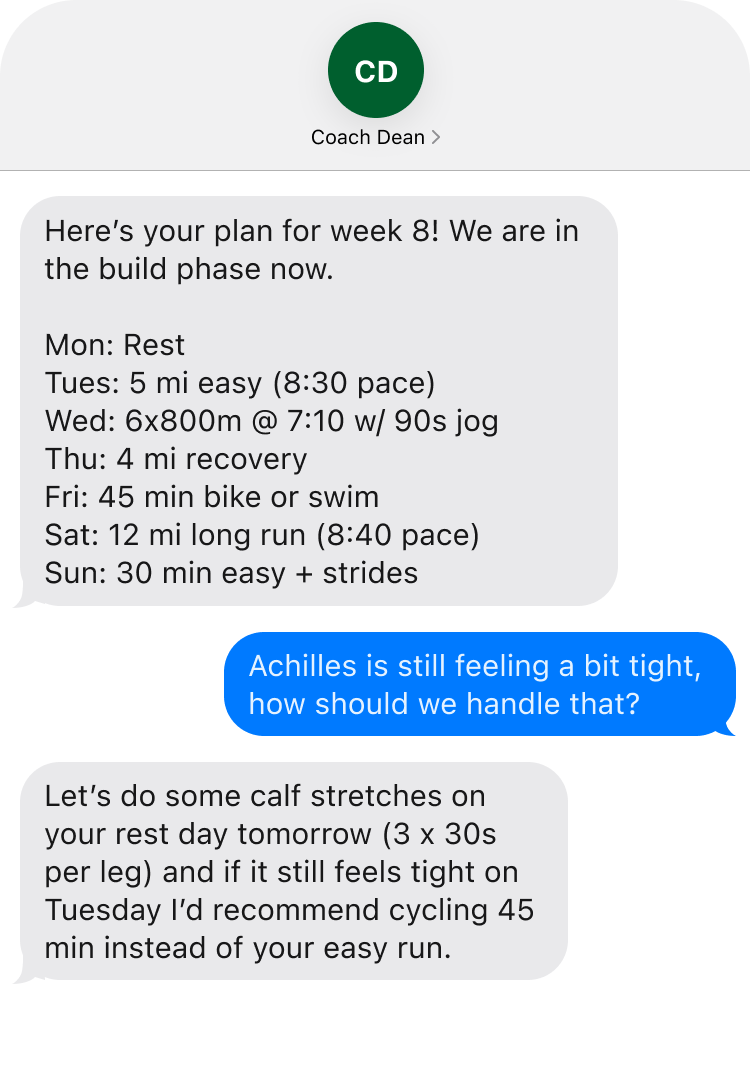
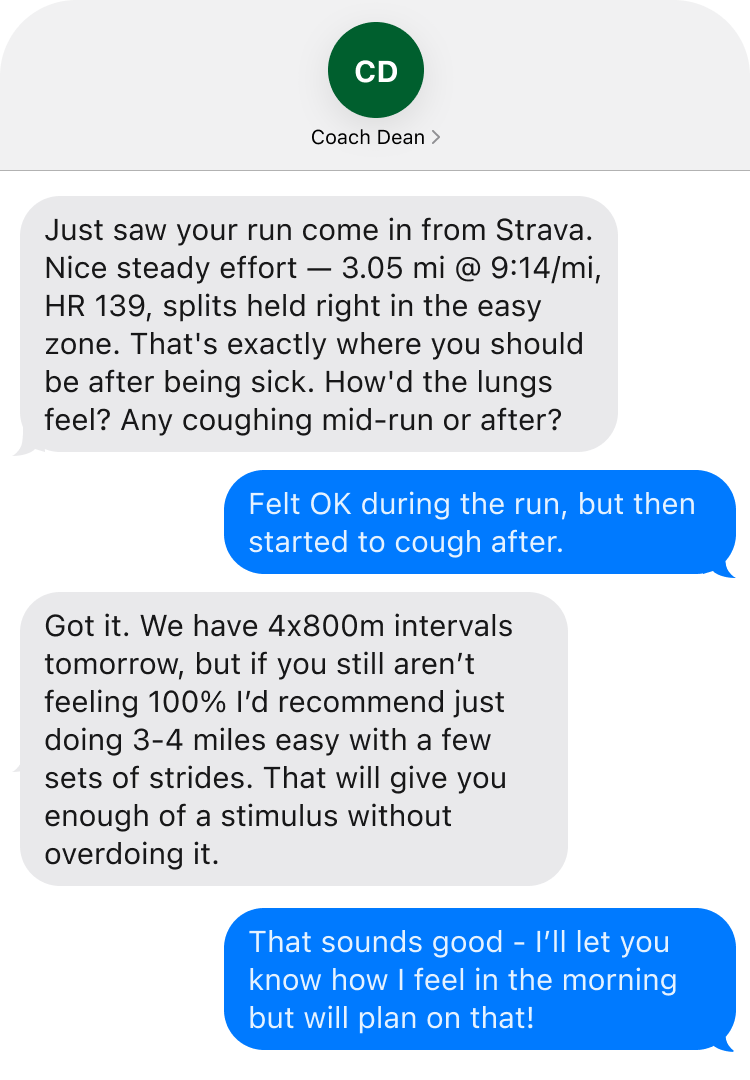
landing page updates

Changed region(s): [[0.0613, 0.1833, 0.9813, 0.9778]]

diff --git a/src/app/page.tsx b/src/app/page.tsx
@@ -16,9 +16,9 @@ const valueProps = [
     screenshot: "/screenshot-1.png",
   },
   {
-    title: "Smart adjustments for injury prevention",
+    title: "Instant coaching after every run",
     description:
-      "Dean tracks how your body responds over time. Mention a nagging pain or flagging energy and he'll pull back your volume, adjust intensity, and keep you training rather than sidelined.",
+      "Connect Strava and Dean analyzes every activity the moment it syncs — pace trends, effort, whether you went out too hard. Real coaching feedback on your actual runs, not a generic \"great job\" notification.",
     screenshot: "/screenshot-2.png",
   },
   {
@@ -52,7 +52,7 @@ export default function Home() {
             </h1>
             <p className="text-lg" style={{ color: "#4a4a4a" }}>
               You signed up for a race. Now what?
-              Dean builds a plan based on your goals and training history, texts you exactly what to do next, and adjusts when life gets in the way.
+              Dean builds a plan, analyzes every run, and adjusts when life gets in the way — all over text. The guidance of a professional coach, for a fraction of the price.
             </p>
             <Suspense>
               <SignupForm smsPhone={smsPhone} />
@@ -103,6 +103,94 @@ export default function Home() {
         );
       })}
 
+      {/* Full season plan arc */}
+      <section className="border-t px-6 py-16 md:py-24">
+        <div className="mx-auto max-w-5xl">
+          <div className="mb-10 text-center">
+            <h2 className="mb-4 font-serif text-2xl font-normal md:text-3xl">
+              Your full season, laid out before you start
+            </h2>
+            <p className="mx-auto max-w-xl leading-relaxed text-muted-foreground">
+              Every phase from base building to race-day taper, visible in one view. Dean texts you the specifics each week and updates the plan as your training evolves.
+            </p>
+          </div>
+
+          {/* Plan arc visualization */}
+          <div className="rounded-2xl border border-gray-200 bg-white p-6 md:p-8">
+            {/* Race header */}
+            <div className="mb-6 flex items-end justify-between">
+              <div>
+                <p className="text-xs uppercase tracking-wide text-gray-400 mb-0.5">Sample plan</p>
+                <p className="text-base font-semibold text-gray-900">Dipsea Trail Race · 7.4 mi</p>
+                <p className="text-sm text-gray-500 mt-0.5">June 14, 2026</p>
+              </div>
+              <div className="text-right">
+                <p className="text-3xl font-bold text-gray-900 leading-none">81</p>
+                <p className="text-xs text-gray-400 mt-0.5">days to go</p>
+              </div>
+            </div>
+
+            {/* Week blocks */}
+            <div className="mb-4 grid grid-cols-12 gap-1 md:gap-1.5">
+              {[
+                { phase: "base" },
+                { phase: "base" },
+                { phase: "base" },
+                { phase: "deload" },
+                { phase: "base", current: true },
+                { phase: "build" },
+                { phase: "build" },
+                { phase: "deload" },
+                { phase: "peak" },
+                { phase: "taper" },
+                { phase: "taper" },
+                { phase: "taper" },
+              ].map((w, i) => {
+                const colors: Record<string, string> = {
+                  base: "bg-sky-200",
+                  build: "bg-orange-200",
+                  deload: "bg-green-200",
+                  peak: "bg-red-200",
+                  taper: "bg-purple-200",
+                };
+                return (
+                  <div key={i} className="flex flex-col items-center gap-1">
+                    <div
+                      className={`h-8 w-full rounded md:h-10 ${colors[w.phase]} ${w.current ? "ring-2 ring-gray-900 ring-offset-1" : ""}`}
+                    />
+                    <span className="text-[9px] text-gray-400 leading-none hidden md:block">
+                      W{i + 1}
+                    </span>
+                  </div>
+                );
+              })}
+            </div>
+
+            {/* Legend + current week callout */}
+            <div className="flex flex-wrap items-center justify-between gap-3">
+              <div className="flex flex-wrap gap-3">
+                {[
+                  { label: "Base", color: "bg-sky-200" },
+                  { label: "Build", color: "bg-orange-200" },
+                  { label: "Deload", color: "bg-green-200" },
+                  { label: "Peak", color: "bg-red-200" },
+                  { label: "Taper", color: "bg-purple-200" },
+                ].map(({ label, color }) => (
+                  <span key={label} className="flex items-center gap-1.5 text-xs text-gray-500">
+                    <span className={`inline-block h-2.5 w-2.5 rounded-sm ${color}`} />
+                    {label}
+                  </span>
+                ))}
+              </div>
+              <span className="text-xs text-gray-400 flex items-center gap-1.5">
+                <span className="inline-block h-2.5 w-2.5 rounded-sm ring-2 ring-gray-900 ring-offset-1 bg-sky-200" />
+                You are here
+              </span>
+            </div>
+          </div>
+        </div>
+      </section>
+
       {/* Training philosophy */}
       <section className="border-t bg-muted/40 px-6 py-16 md:py-24">
         <div className="mx-auto max-w-5xl">
@@ -146,6 +234,63 @@ export default function Home() {
         </div>
       </section>
 
+      {/* Comparison: Dean vs alternatives */}
+      <section className="border-t px-6 py-16 md:py-24">
+        <div className="mx-auto max-w-5xl">
+          <div className="mb-12 text-center">
+            <h2 className="mb-4 font-serif text-2xl font-normal md:text-3xl">
+              A professional coach for 1/10 of the price
+            </h2>
+            <p className="mx-auto max-w-xl leading-relaxed text-muted-foreground">
+              Most runners are stuck choosing between a $15/month app that can&apos;t adapt and a $200/month coach they can&apos;t afford. Dean is the middle ground.
+            </p>
+          </div>
+
+          <div className="grid gap-4 md:grid-cols-3">
+            {/* Training app */}
+            <div className="rounded-2xl border border-gray-200 bg-white p-6 flex flex-col gap-4">
+              <div>
+                <p className="text-xs uppercase tracking-wide text-gray-400 mb-1">Training apps</p>
+                <p className="font-serif text-lg font-normal text-gray-700">Runna, TrainingPeaks, others</p>
+              </div>
+              <p className="text-sm leading-relaxed text-muted-foreground flex-1">
+                You get a plan, a calendar, and pace zones. But the app can&apos;t see that you barely slept, can&apos;t adjust when you get sick, and has no one to ask when your knee starts acting up.
+              </p>
+              <p className="text-sm font-medium text-gray-500">~$15–20 / month</p>
+            </div>
+
+            {/* Coach Dean — featured */}
+            <div className="rounded-2xl bg-gray-900 p-6 flex flex-col gap-4 text-white md:-mt-4 md:-mb-4">
+              <div>
+                <p className="text-xs uppercase tracking-wide text-gray-400 mb-1">The alternative</p>
+                <p className="font-serif text-lg font-normal">Coach Dean</p>
+              </div>
+              <ul className="text-sm leading-relaxed text-gray-300 flex-1 space-y-2">
+                <li className="flex gap-2"><span className="text-white mt-0.5">✓</span> Personalized plan built around your race and fitness</li>
+                <li className="flex gap-2"><span className="text-white mt-0.5">✓</span> Real coaching feedback on every Strava activity</li>
+                <li className="flex gap-2"><span className="text-white mt-0.5">✓</span> Adapts when you&apos;re sick, traveling, or overtrained</li>
+                <li className="flex gap-2"><span className="text-white mt-0.5">✓</span> Full season plan visible on your dashboard</li>
+                <li className="flex gap-2"><span className="text-white mt-0.5">✓</span> Text any question, get a specific answer</li>
+                <li className="flex gap-2"><span className="text-white mt-0.5">✓</span> No app to download. No calls to schedule.</li>
+              </ul>
+              <p className="text-sm font-medium text-gray-300">Free during beta</p>
+            </div>
+
+            {/* Human coach */}
+            <div className="rounded-2xl border border-gray-200 bg-white p-6 flex flex-col gap-4">
+              <div>
+                <p className="text-xs uppercase tracking-wide text-gray-400 mb-1">Human coach</p>
+                <p className="font-serif text-lg font-normal text-gray-700">The gold standard</p>
+              </div>
+              <p className="text-sm leading-relaxed text-muted-foreground flex-1">
+                Truly personalized, deeply experienced, and available for real conversation. But at $150–300/month, a 30-minute weekly check-in, and a whole lot of scheduling, most runners never get access to one.
+              </p>
+              <p className="text-sm font-medium text-gray-500">$150–300 / month</p>
+            </div>
+          </div>
+        </div>
+      </section>
+
       {/* FAQ */}
       <section className="border-t px-6 py-16 md:py-24">
         <div className="mx-auto max-w-2xl">
@@ -158,8 +303,9 @@ export default function Home() {
                 q: "How is Coach Dean different from Runna or using ChatGPT to plan my workouts?",
                 a: (
                   <>
-                    <p>Runna gives you a great static plan, but it doesn't know that you had a rough week, skipped two workouts, or ran your long run way too fast. Coach Dean lives in your text messages and adapts in real time — just reply with how a workout went and he'll adjust.</p>
-                    <p className="mt-3">ChatGPT can answer running questions, but it has no memory of your training history, no structured plan, and no one checking in on you. Dean combines the personalization of a real coach with the convenience of SMS — no app to open, no dashboard to check in on.</p>
+                    <p>Runna builds a solid plan, but it&apos;s static. It doesn&apos;t know you ran your long run too hard, skipped a week because of travel, or have a 100K six weeks after your target race. Dean sees all of that — and adjusts.</p>
+                    <p className="mt-3">The biggest difference people notice: connect Strava and Dean sends you coaching feedback within minutes of every run finishing. Not a generic notification — actual analysis of your pace, effort, and how it fits your training. That alone is something no app does.</p>
+                    <p className="mt-3">ChatGPT has no memory of your training, no structured plan, and no one proactively checking in. Dean combines a real plan with real-time adaptation and an always-available coaching voice — all over text, no app required.</p>
                   </>
                 ),
               }, 

diff --git a/src/lib/training-plan.ts b/src/lib/training-plan.ts
@@ -167,7 +167,7 @@ No other text.`,
     const appUrl = process.env.NEXT_PUBLIC_APP_URL ?? "https://coachdean.ai";
     const planUrl = `${appUrl}/dashboard?token=${dashboardToken}`;
     try {
-      await sendSMS(phoneNumber, `Your full ${totalWeeks}-week training plan is ready to view: ${planUrl}`);
+      await sendSMS(phoneNumber, `Your full ${totalWeeks}-week training plan is ready: ${planUrl}\n\nI'll send you the specifics each week and keep this updated as your training progresses.`);
     } catch (err) {
       console.error("[generateAndSaveFullPlan] dashboard link SMS failed (non-fatal):", err);
     }

diff --git a/src/app/api/onboarding/handle/route.ts b/src/app/api/onboarding/handle/route.ts
@@ -614,7 +614,11 @@ If no other races mentioned (e.g. "nope", "just the one", "that's it"), return: 
     other_races: otherRaces,
     other_races_answered: true,
   };
-  const nextStep = findNextStep("awaiting_other_races", mergedData);
+  // If the A race was just promoted, we need to confirm its date before moving on.
+  // awaiting_race_date is earlier in STEP_ORDER so findNextStep won't reach it — override manually.
+  const nextStep = newARace && !mergedData.race_date_confirmed
+    ? "awaiting_race_date"
+    : findNextStep("awaiting_other_races", mergedData);
 
   await supabase
     .from("users")

diff --git a/CHANGELOG.md b/CHANGELOG.md
@@ -10,7 +10,7 @@ All notable changes to Coach Dean are tracked here. Each entry includes the user
 **Reported by:** User feedback (Jake)
 **User feedback:** "I found this conversation in onboarding a bit confusing - I assumed it would ask more about my target race...rather than the first race I mentioned"
 **Root cause:** `handleOtherRaces` always treated the first-mentioned race as the A race regardless of priority signals. When Jake said "the 100k is top priority then dipsea," the system kept Dipsea as `race_name` and then asked about goal time for "the race" generically — so Jake answered thinking about the 100k while Coach Dean looked up Dipsea stats.
-**Fix / Change:** (1) `handleOtherRaces` parse prompt now detects A-race promotion via `new_a_race` field — when set, swaps `race_name`/`goal`/`race_date` to the newly promoted race, adds old A race to `other_races` as B, and clears `race_date_confirmed`. (2) `awaiting_goal_time` question now names the specific race: "Do you have a time goal for the Tahoe Rim Trail?" — removing the ambiguity entirely.
+**Fix / Change:** (1) `handleOtherRaces` parse prompt now detects A-race promotion via `new_a_race` field — when set, swaps `race_name`/`goal`/`race_date` to the newly promoted race, adds old A race to `other_races` as B, and clears `race_date_confirmed`. After promotion, `nextStep` is forced to `awaiting_race_date` so the new A race date gets confirmed before continuing (bypassing the normal forward-only step scan). (2) `awaiting_goal_time` question now names the specific race: "Do you have a time goal for the Tahoe Rim Trail?" — removing the ambiguity entirely.
 **Files changed:** src/app/api/onboarding/handle/route.ts
 
 ## 2026-03-25 — Fix cite-tag stripping swallowing words in race acknowledgment
@@ -21,6 +21,33 @@ All notable changes to Coach Dean are tracked here. Each entry includes the user
 **Root cause:** Claude's web_search tool sometimes wraps cited words inside `<cite>text</cite>` tags. The regex `/<cite[^>]*>[\s\S]*?<\/cite>/g` was stripping the entire tag including its inner content, so "Suicide <cite>Steps</cite>" became "Suicide " — dropping the word "Steps" and creating a run-on.
 **Fix / Change:** Changed all three cite-stripping regexes in `onboarding/handle/route.ts` to preserve inner content: `replace(/<cite[^>]*>([\s\S]*?)<\/cite>/g, "$1")`.
 **Files changed:** src/app/api/onboarding/handle/route.ts
+
+## 2026-03-25 — Landing page: plan arc visualization, comparison section, Strava angle
+
+**Type:** Improvement
+**Reported by:** User feedback (Jake)
+**User feedback:** "should we showcase the dashboard on the landing page? I'm thinking about things to differentiate from Runna — 'a professional running coach for 1/10 of the price'. One thing we should emphasize is real time feedback on all your Strava activities, that has been really cool."
+**Root cause:** Landing page didn't mention the dashboard, didn't anchor the price angle, and undersold the real-time Strava feedback feature.
+**Fix / Change:**
+- Hero subtext updated: "analyzes every run" and "a fraction of the price" added
+- Value prop 2 changed from "Smart adjustments for injury prevention" to "Instant coaching after every run" — centers the Strava real-time feedback as a key differentiator
+- New "Your full season, laid out before you start" section: code-rendered 12-week plan arc showing base/build/deload/peak/taper blocks with a current-week indicator and legend — no screenshot dependency
+- New "A professional coach for 1/10 of the price" comparison section: three cards (Training apps ~$15/mo, Coach Dean featured dark card, Human coach $150–300/mo) clearly positioning Dean in the middle
+- Runna FAQ answer sharpened: leads with the Strava post-run feedback angle ("actual analysis of your pace, effort...that alone is something no app does"), then covers ChatGPT
+**Files changed:** src/app/page.tsx
+
+---
+
+## 2026-03-25 — Dashboard link SMS now explains what the plan page is for
+
+**Type:** Improvement
+**Reported by:** User feedback (Jake)
+**User feedback:** "I think another thing that may be helpful in onboarding is to have a sentence about the purpose of the dashboard when we send it"
+**Root cause:** The plan-ready SMS just said "Your full 12-week training plan is ready to view: <url>" with no context about what to expect next.
+**Fix / Change:** Added a second sentence: "I'll send you the specifics each week and keep this updated as your training progresses." Separated by a newline so it reads as two distinct thoughts.
+**Files changed:** src/lib/training-plan.ts
+
+---
 
 ## 2026-03-25 — Dashboard hero: race name, countdown, and week progress bar
 
